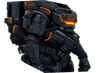
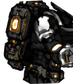
玩家美术定稿:用户AI母本直切五单元(含armgun双臂持枪整体部件),数据驱动背景阈值0.52/激光擦除/aimOffset抵消枪管烘焙倾角,骨架高100髋50全量重解

diff --git a/src/entities/CharacterRig.js b/src/entities/CharacterRig.js
@@ -75,10 +75,10 @@ export class CharacterRig {
     //   走出±28px 的水平跨步——腿始终是弯的下蹲形态,但脚是前后迈而非上下抖。
     if (cr > 0) {
       const mb = Math.min(1, gait * 1.3)
-      this._crouchDrop = 22 // 蹲行与跪姿同一低度(髋高37-22=15=大腿长,后膝可触地)
+      this._crouchDrop = 32 // 蹲行与跪姿同一低度(髋高50-32=18=大腿长,后膝可触地)
       this._crouchPitch = L(10, 16, mb)
-      // 跪姿(静止):前膝立起小腿竖直脚收膝下(小腿27>大腿20,故膝略高于髋);后膝触地小腿平贴
-      let tF = -95, sF = 85, tB = 10, sB = 80
+      // 跪姿(静止):新腿型小腿(32)远长于大腿(18),前脚踩点在身前(总角-52°);后膝触地小腿平贴
+      let tF = -95, sF = 43, tB = 10, sB = 80
       if (mb > 0.01) {
         // 低位潜行(双骨 IK):双脚钉住地面沿水平 ±24px 往返(迈步腿微抬 5px),
         // 由 IK 反解大小腿角——前伸腿伸展、收回腿深折于臀下,腿形反差即"蹲着走"
@@ -86,8 +86,8 @@ export class CharacterRig {
         const A = 24 // 步幅(用户定版:±24 形态最好看,勿加大)
         // 两脚踩同一条 ±A 居中轨道(对称交替);IK 起点用各自真实胯点(前+4/后-5),
         // 不要给脚的轨道加错位偏置——那会造成"一腿前迈大后迈小、另一腿相反"的不对称
-        const ikF = this._legIK(2, hipY, A * Math.sin(ph), -4 * Math.max(0, Math.cos(ph)), 15, 21)
-        const ikB = this._legIK(-2, hipY, A * Math.sin(ph + Math.PI), -4 * Math.max(0, Math.cos(ph + Math.PI)), 15, 21)
+        const ikF = this._legIK(3, hipY, A * Math.sin(ph), -4 * Math.max(0, Math.cos(ph)), 18, 32)
+        const ikB = this._legIK(-3, hipY, A * Math.sin(ph + Math.PI), -4 * Math.max(0, Math.cos(ph + Math.PI)), 18, 32)
         tF = L(tF, ikF.thigh / DEG, mb); sF = L(sF, ikF.shinLocal / DEG, mb)
         tB = L(tB, ikB.thigh / DEG, mb); sB = L(sB, ikB.shinLocal / DEG, mb)
       }
@@ -123,7 +123,8 @@ export class CharacterRig {
       const c = Math.cos(par.ang), s = Math.sin(par.ang)
       part.px = par.px + offX * c - offY * s
       part.py = par.py + offX * s + offY * c
-      part.ang = d.aim ? this.aimAngle : par.ang + part.localAngle * f
+      // aimOffset:抵消贴图内烘焙的枪管倾角(朝左时随 flipY 镜像取反)
+      part.ang = d.aim ? this.aimAngle + (d.aimOffset ?? 0) * DEG * f : par.ang + part.localAngle * f
     }
 
     // 应用到精灵

diff --git a/src/scenes/BootScene.js b/src/scenes/BootScene.js
@@ -1,8 +1,7 @@
 import Phaser from 'phaser'
 
 const IMAGES = [
-  'player_head', 'player_torso', 'player_arm_aim', 'player_thigh', 'player_shin',
-  'rifle',
+  'player_head', 'player_torso', 'player_armgun', 'player_thigh', 'player_shin',
   'robot_head', 'robot_torso', 'robot_arm_aim', 'robot_arm_back', 'robot_thigh', 'robot_shin',
   'wall_tile',
 ]

diff --git a/src/systems/GibSystem.js b/src/systems/GibSystem.js
@@ -7,7 +7,7 @@ import gibsCfg from '../../config/gibs.json'
 
 const M = Phaser.Physics.Matter.Matter
 const LIMB_WEIGHTS = [
-  ['head', 3], ['arm_aim', 3], ['arm_back', 3],
+  ['head', 3], ['armgun', 3], ['arm_aim', 3], ['arm_back', 3],
   ['shin_f', 2], ['shin_b', 2], ['thigh_f', 1], ['thigh_b', 1],
 ]
 

diff --git a/docs/开发日志.md b/docs/开发日志.md
@@ -2,6 +2,13 @@
 
 > 倒序:最新的在上面。每次工作会话记一条:做了什么、验证结果、遗留问题。
 
+## 2026-07-13 · 玩家美术定稿:用户母本直切 + "双臂持枪"整体部件
+- 前两版(pose1 写实比例/stocky 缩放)均被否:细比例缩小成竹竿、拉伸配比丢细节、单臂+枪装配"不像拿枪"。
+- **定稿方案:用户提供的 AI 生成图(参考8)作为切件母本**,五单元切件:头/躯干+背包/**双臂持枪整体(armgun,瞄准部件)**/前腿大腿/前腿小腿+靴——持枪姿势为母本原画,天然正确;骨架删除独立 weapon+arm_aim 两部件。
+- 技术点:①母本背景为瓷砖(非白底),采样实测装甲亮度≤0.26、瓷砖 0.63-0.75,阈值 0.52 一刀切净(**教训:阈值猜三轮不如采样一轮**);②红色激光线像素滤除;③大腿带 24.6° 烘焙倾角,切件时 rotate 转正;④母本枪管自带 9.5° 下倾,rigs 增加 aimOffset 字段在渲染层抵消(朝左随 flipY 取反);⑤角色 1x 高 100、髋 50,IK(18,32),跪沉 32,跪姿前小腿总角 -52°(腿型小腿远长于大腿的几何解)。
+- 排障:vite 双重热重载会冲掉自动化设置的指针坐标 → 验证瞄准时在 input2.update 打补丁钉住 aim;真人鼠标悬停也会覆盖 activePointer。
+- 武器系统影响:换枪=换 armgun 整体贴图(4 把枪=4 个持枪部件),后续武器均按此做。
+
 ## 2026-07-13 · M2 美术管线重大转向:AI 生成 + 程序化切件(玩家完成)
 - 手绘 SVG 走到 v4(枪灰+橙光)仍不达标;素材站(craftpix 等)科幻角色只有像素/低龄卡通风;用户提出照搬 PB2 立绘被否(版权红线)→ 定案 **AI 生成路线**。
 - 管线:pollinations.ai(免费生图 API)生成 → 挑选(c2 方向用户拍板)→ 生成"切件专用姿势"(严格侧视/白底/手背身侧)→ **sharp + 多边形蒙版**精确抠件(tools/cut-player.mjs,preview 模式画红线校版/final 模式白底转透明+缩放)→ 按源图关节测量重写 rigs.json → 装进现有 FK/IK 骨架。

diff --git a/docs/素材许可.md b/docs/素材许可.md
@@ -5,7 +5,8 @@
 | 素材 | 文件 | 来源 URL | 许可 | 署名要求 | 用途 | 登记日期 |
 |---|---|---|---|---|---|---|
 | 玩家角色立绘(AI生成) | docs/风格参考/ai候选/pose1.jpg 等 | pollinations.ai(免费生图 API,Flux 系模型) | AI 生成内容,无第三方素材拷贝;prompt 与生成参数留档于 tools/cut-player.mjs 及本表 | 无 | 切件为 public/assets/img/player_*.png 游戏贴图 | 2026-07-13 |
-| 步枪立绘(AI生成) | docs/风格参考/ai候选/c4_rifle.jpg | 同上 | 同上 | 无 | 切件为 rifle.png | 2026-07-13 |
+| 步枪立绘(AI生成) | docs/风格参考/ai候选/c4_rifle.jpg | 同上 | 同上 | 无 | (已弃用) | 2026-07-13 |
+| 玩家角色母本(用户提供,用户声明为 AI 生成) | docs/风格参考/参考8-切件母本.png | 用户桌面文件,用户声明由 AI 生成 | 按用户声明登记;仅取角色像素,图中背景/HUD(疑似截图合成)未使用 | 无 | 切件为 player_head/torso/armgun/thigh/shin | 2026-07-13 |
 
 > AI 生成素材说明:全部由本项目通过 pollinations.ai 的文本 prompt 现场生成,未使用任何现有游戏素材作为图像输入;生成 prompt、种子、切件多边形坐标均在 git 历史与 tools/cut-player.mjs 中留档,作为原创性证据链。
 
